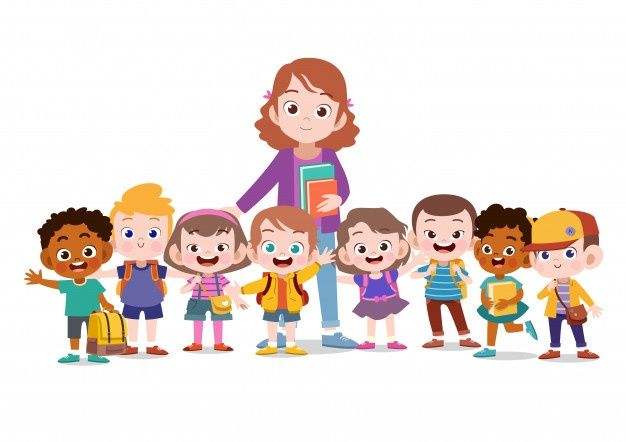
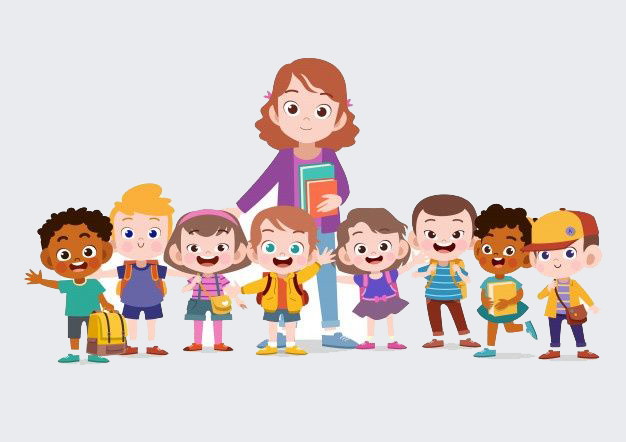
Feature/ change background color and style of elements and so on

Changed region(s): [[0.7284, 0.7647, 0.7588, 0.7941]]

diff --git a/index.html b/index.html
@@ -11,6 +11,12 @@
       href="https://fonts.googleapis.com/css2?family=Vazirmatn:wght@400;600;700&display=swap"
       rel="stylesheet"
     />
+    <link rel="preconnect" href="https://fonts.googleapis.com" />
+    <link rel="preconnect" href="https://fonts.gstatic.com" crossorigin />
+    <link
+      href="https://fonts.googleapis.com/css2?family=Acme&family=Vazirmatn:wght@400;600;700&display=swap"
+      rel="stylesheet"
+    />
     <link
       rel="stylesheet"
       href="https://cdn.jsdelivr.net/npm/bootstrap@5.1.3/dist/css/bootstrap.rtl.min.css"
@@ -70,7 +76,7 @@
       </div>
     </nav>
     <main>
-      <div class="container bg-image home-container position-relative">
+      <div class="container-fluid bg-image home-container position-relative">
         <!-- <img src="images/1280px-BlankMap-World-Flattened.svg.png" alt="English World"> -->
         <h3
           class="position-absolute text-motto top-50 start-50 translate-middle text-center mt-1"
@@ -81,7 +87,9 @@
       </div>
       <div class="container-fluid second-home-container">
         <div class="container-fluid header-second-container">
-          <h3 class="h3-second-header">دوره های آکادمی زبان انگلیسی آرمان</h3>
+          <h4 class="h4-second-header pt-2">
+            دوره های آموزشی آکادمی زبان انگلیسی آرمان
+          </h4>
           <p class="p-second-header">شروع یادگیری و پیشرفت</p>
         </div>
         <div
@@ -89,7 +97,7 @@
           style="max-width: 60rem"
         >
           <div class="col">
-            <div class="card border border-secondary">
+            <div class="card shadow rounded border">
               <img
                 src="images/1.jpg"
                 class="card-img-top img-fluid"
@@ -97,14 +105,14 @@
               />
               <div class="card-body">
                 <h5 class="card-title">دوره برای کودکان</h5>
-                <a href="#" class="btn btn-end btn-primary btn-sm"
+                <a href="#" class="btn btn-end btn-outline-primary mt-3 btn-sm"
                   >اطلاعات بیشتر</a
                 >
               </div>
             </div>
           </div>
           <div class="col">
-            <div class="card border-secondary">
+            <div class="card shadow rounded">
               <img
                 src="images/2 (3).jpg"
                 class="card-img-top img-fluid"
@@ -112,12 +120,14 @@
               />
               <div class="card-body">
                 <h5 class="card-title">دوره برای نوجوانان</h5>
-                <a href="#" class="btn btn-primary btn-sm">اطلاعات بیشتر</a>
+                <a href="#" class="btn btn-outline-primary mt-3 btn-sm"
+                  >اطلاعات بیشتر</a
+                >
               </div>
             </div>
           </div>
           <div class="col">
-            <div class="card border-secondary">
+            <div class="card shadow rounded">
               <img
                 src="images/5.jpg"
                 class="card-img-top img-fluid"
@@ -125,12 +135,14 @@
               />
               <div class="card-body">
                 <h5 class="card-title">دوره برای بزرگسالان</h5>
-                <a href="#" class="btn btn-primary btn-sm">اطلاعات بیشتر</a>
+                <a href="#" class="btn btn-outline-primary mt-3 btn-sm"
+                  >اطلاعات بیشتر</a
+                >
               </div>
             </div>
           </div>
           <div class="col">
-            <div class="card border-secondary">
+            <div class="card shadow rounded">
               <img
                 src="images/4.jpg"
                 class="card-img-top img-fluid"
@@ -138,12 +150,14 @@
               />
               <div class="card-body">
                 <h5 class="card-title">دوره برای تربیت معلم</h5>
-                <a href="#" class="btn btn-primary btn-sm">اطلاعات بیشتر</a>
+                <a href="#" class="btn btn-outline-primary mt-3 btn-sm"
+                  >اطلاعات بیشتر</a
+                >
               </div>
             </div>
           </div>
           <div class="col">
-            <div class="card border-secondary">
+            <div class="card shadow rounded">
               <img
                 src="images/3.jpg"
                 class="card-img-top img-fluid"
@@ -151,7 +165,9 @@
               />
               <div class="card-body">
                 <h5 class="card-title">دوره برای کارمندان شرکت ها</h5>
-                <a href="#" class="btn btn-primary btn-sm">اطلاعات بیشتر</a>
+                <a href="#" class="btn btn-outline-primary mt-3 btn-sm"
+                  >اطلاعات بیشتر</a
+                >
               </div>
             </div>
           </div>
@@ -166,11 +182,6 @@
         <div
           class="first-info-elements d-flex justify justify-content-center align-items-center p-2 bd-highlight gap-1"
         >
-          <img
-            class="img-fluid first-info-image"
-            src="images/Epicture.PNG"
-            alt=""
-          />
           <div class="px-3 text-information">
             <h3>چرا یادگیری زبان انگلیسی؟</h3>
             <p>
@@ -189,7 +200,7 @@
           </div>
         </div>
         <div
-          class="second-info-elements d-flex justify justify-content-center align-items-center p-2 bd-highlight pt-1"
+          class="second-info-elements d-flex justify justify-content-center align-items-center p-2 bd-highlight"
         >
           <div class="text-information">
             <h3>زبان انگلیسی برای کودکان؟</h3>
@@ -212,7 +223,7 @@
       </div>
       <div class="container fourth-home-container">
         <div class="card" dir="ltr">
-          <div class="card-body text-center">
+          <div class="card-body text-center shadow-sm">
             <blockquote
               class="blockquote mb-0 justify-content-center align-items-center"
             >

diff --git a/style.css b/style.css
@@ -30,11 +30,19 @@
 }
 
 .second-home-container {
-  background-color: #1d3557;
+  /* background-color: #1d3557; */
+  background-color: #eaebee;
   display: flex;
   flex-direction: column;
   justify-content: center;
   align-items: center;
+}
+
+body {
+  background-color: #eaebee;
+}
+.home-container {
+  border: 1px solid #eaebee;
 }
 
 .header-second-container {
@@ -47,14 +55,14 @@
   object-fit: cover;
 }
 
-.h3-second-header {
+.h4-second-header {
   text-align: center;
-  color: #ffb703;
+  color: #3c3e34;
 }
 
 .p-second-header {
   text-align: center;
-  color: aliceblue;
+  color: rgb(63, 131, 190);
 }
 
 .infotext-second-container {
@@ -76,4 +84,12 @@
 .tell-number:link,
 .tell-number:visited {
   color: white;
+}
+.fourth-home-container {
+  background-color: #309fe6;
+  font-family: "Acme", sans-serif;
+}
+.fourth-home-container p {
+  font-family: "Acme", sans-serif;
+  font-size: 1.6rem;
 }
